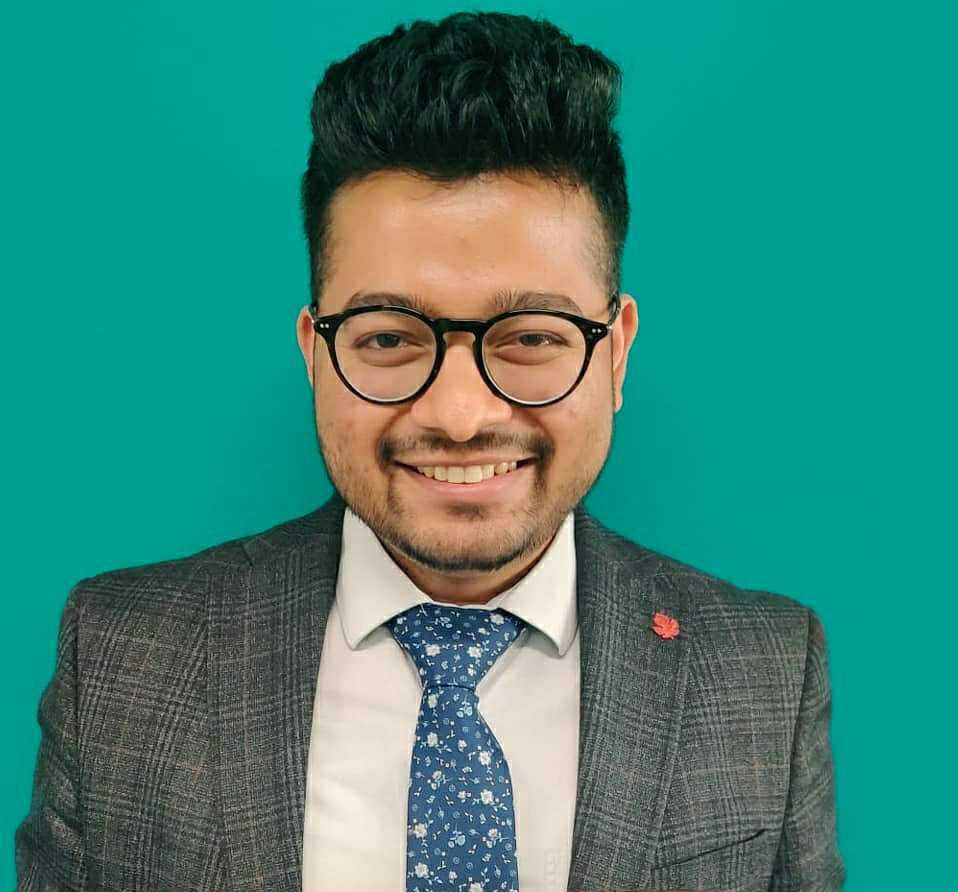
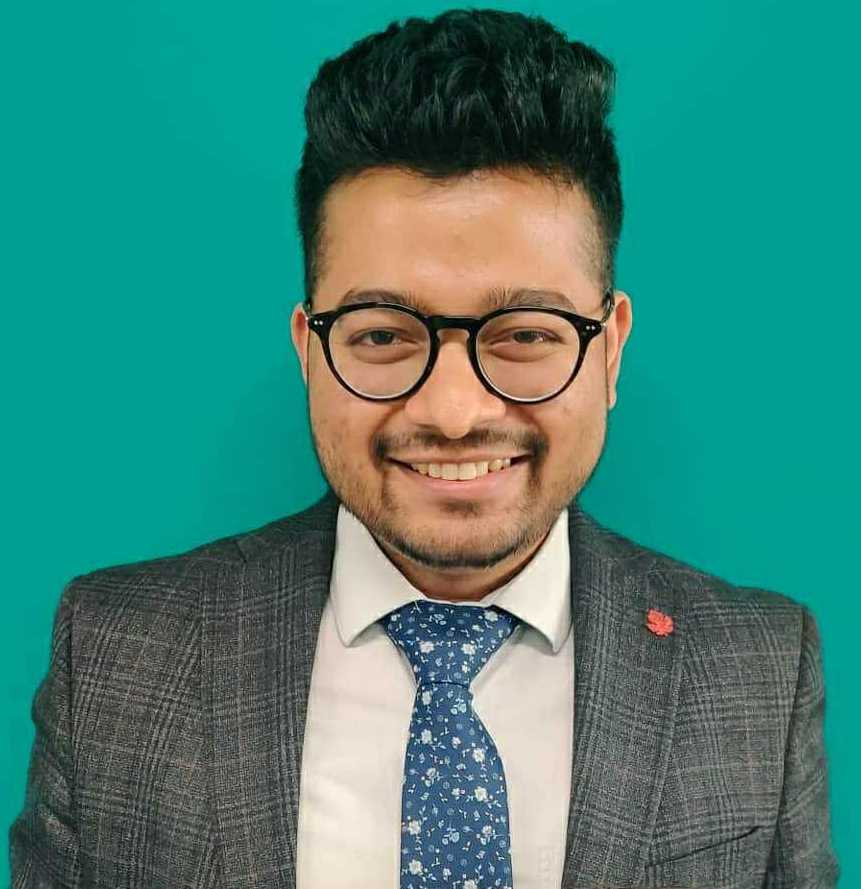
update

diff --git a/index.html b/index.html
@@ -22,7 +22,7 @@
 <h1>Jyotikrishna Dass</h1>
 </div>
 <table class="imgtable"><tr><td>
-<img src="photos/jdpicture.jpg" alt="JD pic" width="200px" height="180px" />&nbsp;</td>
+<img src="photos/jdpicture.jpg" alt="JD pic" width="180px" height="200px" />&nbsp;</td>
 <td align="left"><p>Postdoctoral Associate <br /> <a href="https://www.ece.rice.edu/">Department of Electrical &amp; Computer Engineering</a> <br /> Rice University <br /> 6100 Main St, MS-366 <br /> Houston, TX <br />
 </p>
 <p>E-mail: <i>jdass</i> [@] rice [DOT] edu <br />
